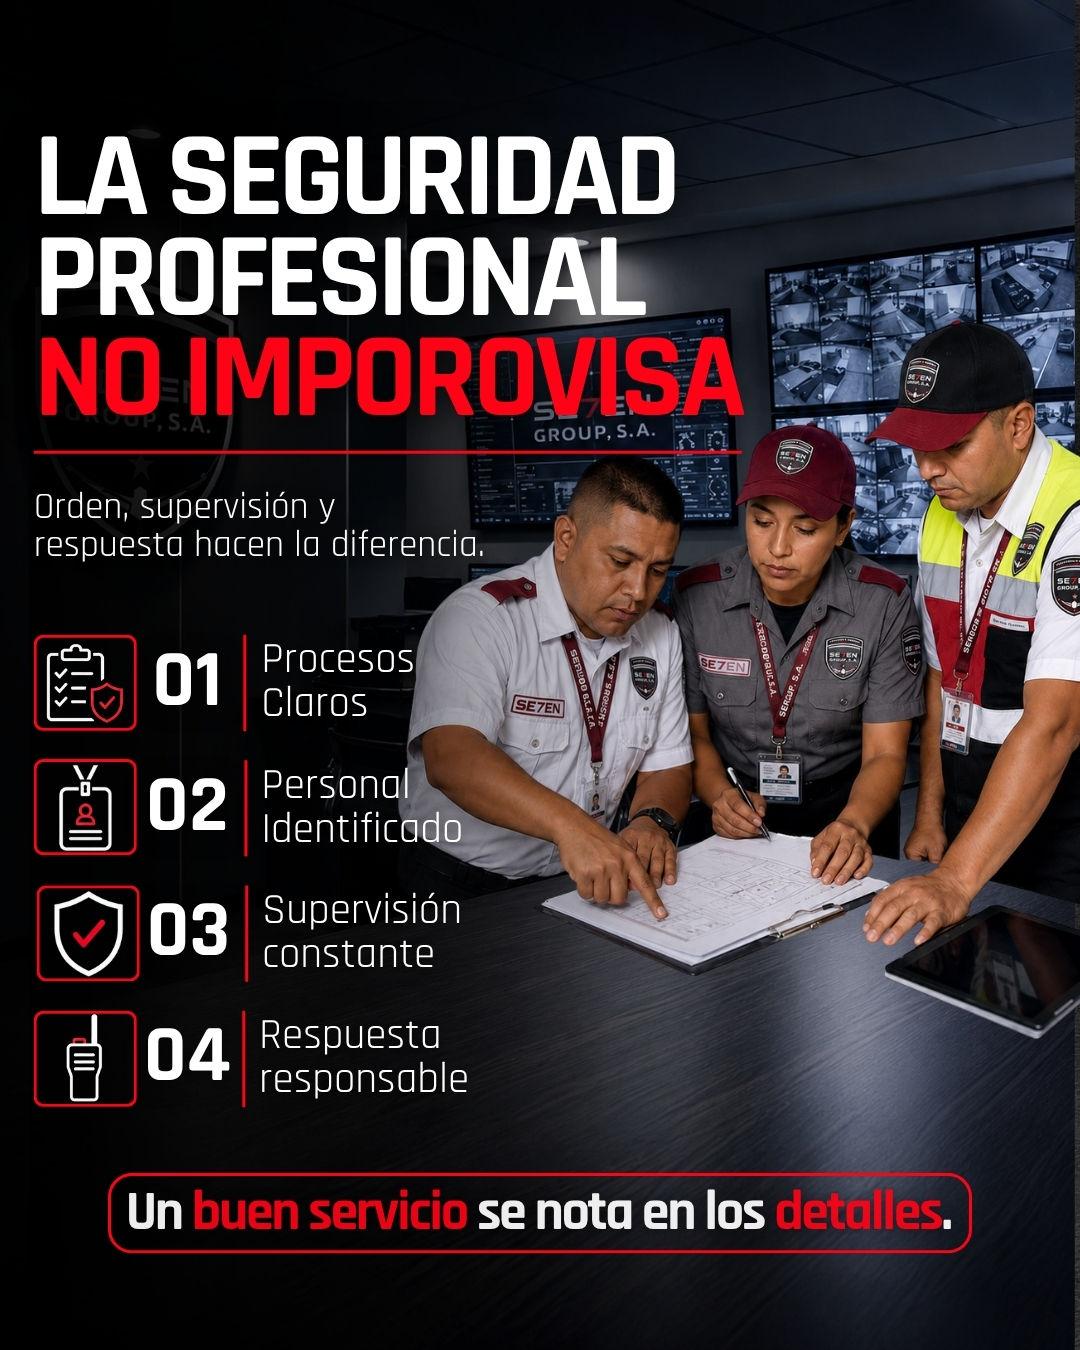
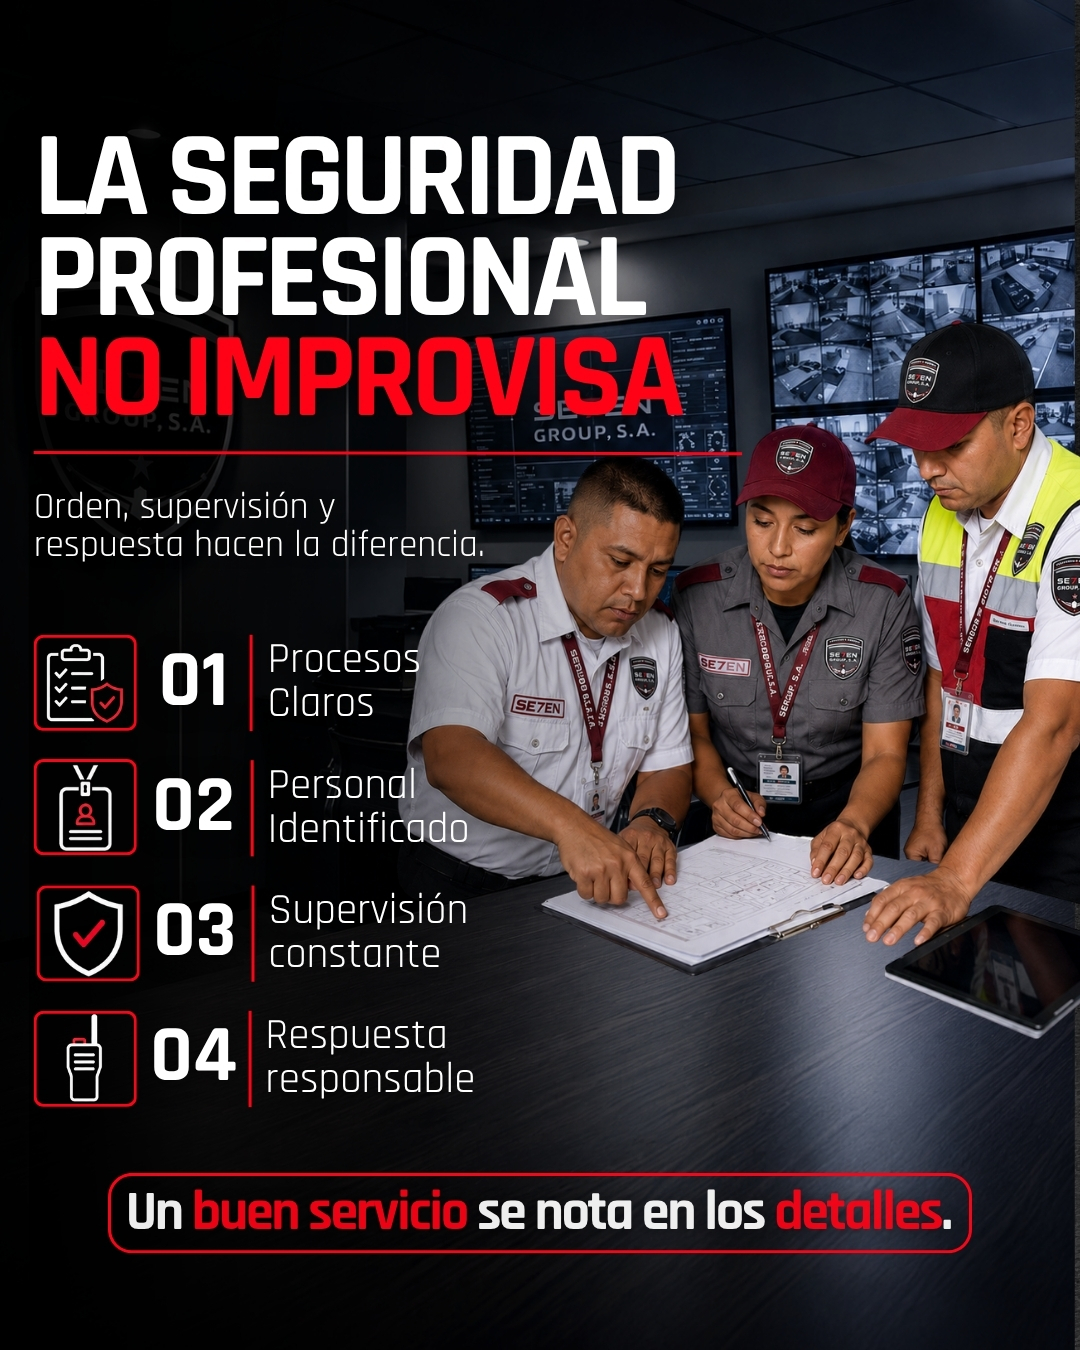
Corregir tipado de GlassButton para compatibilidad con Framer Motion

Changed region(s): [[0.1222, 0.4667, 0.4278, 0.84], [0.2444, 0.2489, 0.7028, 0.3422]]

diff --git a/src/components/ui/GlassButton.tsx b/src/components/ui/GlassButton.tsx
@@ -1,8 +1,9 @@
 
 import { motion } from "framer-motion";
+import type { HTMLMotionProps } from "framer-motion";
 import type { ReactNode } from "react";
 
-interface GlassButtonProps extends React.ButtonHTMLAttributes<HTMLButtonElement> {
+interface GlassButtonProps extends HTMLMotionProps<"button"> {
     children: ReactNode;
     className?: string;
     variant?: "primary" | "secondary" | "ghost";